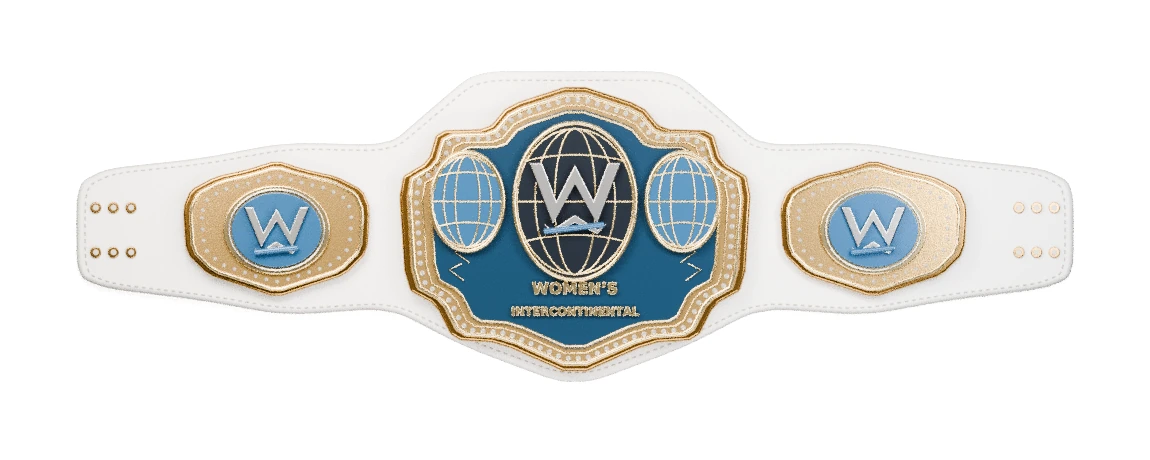
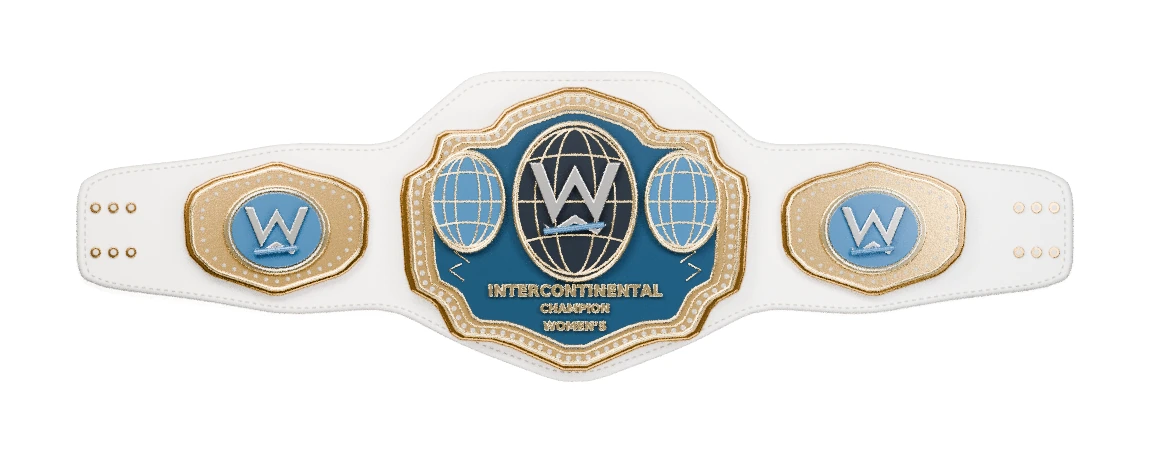
fix: revisa cinturoes e valida o pacote da beta
Ajusta as placas de cinco campeonatos da WWE e do NXT com referencias das edicoes atuais. Verifica a pintura no topo e no fim da lista depois dos filtros e o aviso durante uma resposta atrasada. Valida todos os WebPs pelo iniciador do Windows.

diff --git a/tests/browser/review.spec.ts b/tests/browser/review.spec.ts
@@ -228,6 +228,7 @@ test('carrega e enquadra todos os títulos, filtra as nove agendas e confere os 
     await expect(cards).toHaveCount(titles.length)
     const assets = await cards.evaluateAll(images => images.map(img => (img as HTMLImageElement).src))
     expect(assets, circuit).toEqual(titles.map(title => frames[OPENING_TITLES.indexOf(title)].src))
+    await expect(cards.first().locator('xpath=..')).toHaveAttribute('data-belt-status', 'ready')
   }
   await filter.selectOption('all')
   await expect(cards).toHaveCount(OPENING_TITLES.length)
@@ -235,26 +236,31 @@ test('carrega e enquadra todos os títulos, filtra as nove agendas e confere os 
   await expect(main.locator('.belt-load-error')).toHaveCount(0)
   const firstImage = cards.first()
   await expect(firstImage).toHaveAttribute('loading', 'eager')
-  await expect(firstImage.locator('xpath=..')).toHaveAttribute('data-belt-status', 'ready')
-  await expect.poll(async () => {
-    const frame = await firstImage.screenshot()
-    return page.evaluate(async png => {
-      const bytes = Uint8Array.from(atob(png), char => char.charCodeAt(0))
-      const bitmap = await createImageBitmap(new Blob([bytes], { type: 'image/png' }))
-      const canvas = document.createElement('canvas')
-      canvas.width = 80
-      canvas.height = 32
-      const ctx = canvas.getContext('2d', { willReadFrequently: true })!
-      ctx.drawImage(bitmap, 0, 0, canvas.width, canvas.height)
-      const { data } = ctx.getImageData(0, 0, canvas.width, canvas.height)
-      bitmap.close()
-      let beltPixels = 0
-      for (let index = 0; index < data.length; index += 4) {
-        if (Math.min(data[index], data[index + 1], data[index + 2]) < 200) beltPixels++
-      }
-      return beltPixels / (canvas.width * canvas.height)
-    }, frame.toString('base64'))
-  }).toBeGreaterThan(.15)
+  const lastImage = cards.last()
+  await expect(lastImage).toHaveAttribute('loading', 'lazy')
+  for (const image of [firstImage, lastImage]) {
+    await image.scrollIntoViewIfNeeded()
+    await expect(image.locator('xpath=..')).toHaveAttribute('data-belt-status', 'ready')
+    await expect.poll(async () => {
+      const frame = await image.screenshot()
+      return page.evaluate(async png => {
+        const bytes = Uint8Array.from(atob(png), char => char.charCodeAt(0))
+        const bitmap = await createImageBitmap(new Blob([bytes], { type: 'image/png' }))
+        const canvas = document.createElement('canvas')
+        canvas.width = 80
+        canvas.height = 32
+        const ctx = canvas.getContext('2d', { willReadFrequently: true })!
+        ctx.drawImage(bitmap, 0, 0, canvas.width, canvas.height)
+        const { data } = ctx.getImageData(0, 0, canvas.width, canvas.height)
+        bitmap.close()
+        let beltPixels = 0
+        for (let index = 0; index < data.length; index += 4) {
+          if (Math.min(data[index], data[index + 1], data[index + 2]) < 200) beltPixels++
+        }
+        return beltPixels / (canvas.width * canvas.height)
+      }, frame.toString('base64'))
+    }).toBeGreaterThan(.15)
+  }
   await main.getByRole('heading', { name: 'Campeonatos' }).scrollIntoViewIfNeeded()
   if (process.env.QA_SCREENSHOTS) await page.screenshot({ path: process.env.QA_SCREENSHOTS + '/catalogo-71-' + testInfo.project.name + '.png' })
 
@@ -268,6 +274,36 @@ test('carrega e enquadra todos os títulos, filtra as nove agendas e confere os 
     await expect.poll(() => image.evaluate(el => (el as HTMLImageElement).naturalWidth)).toBe(1150)
   }
   expect(await main.evaluate(element => element.scrollWidth <= window.innerWidth)).toBe(true)
+})
+
+test('mantém o aviso até a imagem carregar ao voltar para Todas', async ({ page }) => {
+  const firstTitle = OPENING_TITLES[0]
+  const source = beltVisualFor(firstTitle, null).asset
+  let releaseImage!: () => void
+  const blockedImage = new Promise<void>(resolve => { releaseImage = resolve })
+  await page.route('**/' + source, async route => {
+    await blockedImage
+    await route.continue()
+  })
+  await page.goto('./')
+  const main = page.getByRole('main')
+  await visit(page, 'Campeonatos')
+  const filter = main.getByLabel('Empresa ou brand')
+  const firstFrame = main.locator('.belt-card > summary .belt-media').first()
+  try {
+    await filter.selectOption('tna')
+    await expect(firstFrame).toHaveAttribute('data-belt-status', 'ready')
+    await filter.selectOption('all')
+    await expect(firstFrame.getByRole('img')).toHaveAttribute('src', new RegExp('/' + source + '$'))
+    await expect(firstFrame).toHaveAttribute('data-belt-status', 'loading')
+    await expect(firstFrame.getByText('Carregando imagem…')).toBeVisible()
+  } finally {
+    releaseImage()
+  }
+  await expect(firstFrame).toHaveAttribute('data-belt-status', 'ready')
+  await expect(firstFrame.getByRole('img')).toHaveJSProperty('naturalWidth', 1150)
+  await expect(firstFrame.getByText('Carregando imagem…')).toHaveCount(0)
+  await expect(main.locator('.belt-load-error')).toHaveCount(0)
 })
 
 test('apresenta o modelo de referência, a foto histórica e as edições que a carreira cria', async ({ page }, testInfo) => {

diff --git a/scripts/render-belt-studio.py b/scripts/render-belt-studio.py
@@ -426,11 +426,15 @@ def cast_wwe(x, y, width, height, z, metal, inset, accent):
 
 
 def relief_emblem(kind, mark, y, z, metal, face, accent, dark, pale):
-    if kind in ('wwe', 'wwe-globe'):
-        if kind == 'wwe-globe':
+    if kind in ('wwe', 'wwe-globe', 'world-tag'):
+        if kind != 'wwe':
             world_emblem(0, y, 1.11, 1.00, z, pale, dark)
         cast_wwe(0, y + .08, 1.88 if kind == 'wwe' else 1.10, 1.40 if kind == 'wwe' else .95,
                  z + .073, pale, dark, accent)
+        return
+    if kind == 'nxt-globe':
+        world_emblem(0, y, 1.45, .95, z, metal, dark)
+        lettering(mark, 0, y, z + .068, 1.0, 2.65, pale)
         return
     if kind == 'intercontinental':
         for x in (-1.40, 1.40):
@@ -597,9 +601,9 @@ def catalog_studio(design, output, samples, width):
 
     kind = design['emblem']
     usa = brand == 'wwe' and kind == 'eagle'
-    emblem_y = -.83 if usa else .37
+    emblem_y = -.83 if usa else {'world-tag': .05, 'nxt-globe': .43}.get(kind, .37)
     relief_emblem(kind, mark, emblem_y, z + .022, lip, engraving, accent, dark, bright)
-    show_mark = kind != 'wwe' and kind != 'wwe-globe' and (kind != 'mark' or mark != brand_mark)
+    show_mark = kind not in ('wwe', 'wwe-globe', 'world-tag', 'nxt-globe') and (kind != 'mark' or mark != brand_mark)
     if show_mark and not usa:
         lettering(brand_mark, 0, mh * .62, z, .157, 1.54, engraving)
     if kind == 'wwe-globe':
@@ -617,7 +621,7 @@ def catalog_studio(design, output, samples, width):
                                                     y + math.cos(angle) * .12), z + .005, .039, lip, .012)
 
     lines = design['text']
-    text_y = {'wwe': -1.10, 'wwe-globe': -.87, 'intercontinental': -.76}.get(kind, -.56)
+    text_y = {'wwe': -1.10, 'wwe-globe': -.87, 'intercontinental': -.79, 'nxt-globe': -.80}.get(kind, -.56)
     lens = min(mw * 1.38, 3.64)
     font_path = SERIF_PATH if design['detail'] in ('scroll', 'laurel') else FONT_PATH
     if usa:
@@ -632,10 +636,17 @@ def catalog_studio(design, output, samples, width):
             for i in range(4):
                 solid('Struck star', at(star_points(), .072, .076, sign * (.70 + i * .25), 1.24 - i * .11),
                       z + .015, .028, bright, .006)
+    elif kind == 'world-tag':
+        for text, y in zip(lines, (1.30, -1.25)):
+            banner = at(smooth_outline(PLAQUE, 1), 1.52, .24, y=y)
+            solid('Crimson title banner', banner, z, .045, accent, .016)
+            border('Polished banner edge', banner, z + .038, .020, lip)
+            lettering(text, 0, y, z + .050, .32, 2.76, bright, SERIF_PATH)
     else:
         text_metal = dark if brand == 'wwe' and face == plate else engraving
+        line_spacing = .23 if len(lines) > 2 else .30
         for i, text in enumerate(lines):
-            lettering(text, 0, text_y - .30 * i, z + .021, (.32 if i == 0 else .235),
+            lettering(text, 0, text_y - line_spacing * i, z + .021, (.32 if i == 0 else .235),
                       lens * (1 if i == 0 else .88), text_metal, font_path)
 
     # Side plates share the same metal and fasteners as the center casting.

diff --git a/scripts/pack-belt-catalog.py b/scripts/pack-belt-catalog.py
@@ -12,17 +12,18 @@ ART_LIMIT = (1058, 390)
 
 
 def main():
+    designs = json.loads(Path(__file__).with_name('belt-catalog-designs.json').read_text(encoding='utf-8'))
     parser = argparse.ArgumentParser(description=__doc__)
     parser.add_argument('renders', type=Path, help='Directory of PNGs made by the Blender script')
     parser.add_argument('--art', type=Path, help='Optional directory of curated studio artwork by title ID')
+    parser.add_argument('--title', action='append', choices=designs, help='Pack this catalog ID only. May be repeated.')
     parser.add_argument('--out', type=Path, default=ROOT / 'public' / 'belts' / 'catalog')
     args = parser.parse_args()
 
-    designs = json.loads(Path(__file__).with_name('belt-catalog-designs.json').read_text(encoding='utf-8'))
     overrides = {path.stem: path for path in args.art.glob('*.png')} if args.art else {}
     if unknown := overrides.keys() - designs.keys():
         parser.error('Unknown artwork IDs: ' + ', '.join(sorted(unknown)))
-    sources = {title: overrides.get(title, args.renders / (title + '.png')) for title in designs}
+    sources = {title: overrides.get(title, args.renders / (title + '.png')) for title in args.title or designs}
     if missing := [title for title, path in sources.items() if not path.is_file()]:
         parser.error('Missing PNGs: ' + ', '.join(missing))
     args.out.mkdir(parents=True, exist_ok=True)
@@ -37,7 +38,7 @@ def main():
             offset = tuple((whole - part) // 2 for whole, part in zip(SIZE, loaded.size))
             frame.paste(loaded, offset, loaded)
             frame.save(args.out / (title + '.webp'), method=6, quality=91)
-    print(f'{len(sources)} images, {len(overrides)} curated studio scenes.')
+    print(f'{len(sources)} images, {len(sources.keys() & overrides.keys())} curated studio scenes.')
 
 
 if __name__ == '__main__':

diff --git a/docs/CATALOGO-CINTUROES.md b/docs/CATALOGO-CINTUROES.md
@@ -26,6 +26,8 @@ As vitrines abaixo permitem consultar fotografias oficiais de réplicas. Os arqu
 | ROH | [Eventos e resultados](https://www.ringofhonor.com/) · [Referência visual de títulos](https://www.thesmackdownhotel.com/title-history/) |
 | BWF | [Sul-Americano](https://bwf.com.br/sul-americano/) · [Histórico do Maremoto](https://bwf.com.br/maremoto-volta-a-bwf-em-show-no-proximo-sabado-conheca-sua-historia/) · [Elenco](https://bwf.com.br/lutadores/) |
 
+As referências da WWE também mostram as placas distintas dos títulos de duplas de [Raw](https://euroshop3.wwe.com/en/wwe-world-tag-team-championship-replica-title-belt/p-201513803) e [SmackDown](https://shop.wwe.com/en/wwe-tag-team-championship-replica-title-belt/p-201467105) e as inscrições e acabamentos dos títulos [Intercontinental feminino](https://shop.wwe.com/en/wwe-womens-intercontinental-championship-replica-title-belt/p-202474595), [United States feminino](https://shop.wwe.com/en/womens-united-states-championship-replica-title-belt/p-202474596) e [NXT feminino](https://shop.wwe.com/en/wwe-nxt-womens-championship-2024-replica-title-belt/p-202360508). O BWF Maremoto usa uma representação temática. A [placa histórica de 2012](https://bwf.com.br/wp-content/uploads/2018/08/BWF-Cinturao-Virada-Culturao-1024x400.jpg) homenageia Pirata Alma Negra.
+
 ## Edições criadas na carreira
 
 São 32 modelos originais renderizados no Blender, exibidos offline em WebP de 1150 × 460. Cada uma das oito identidades visuais tem quatro modelos, para o título original, a unificação, a reformulação e a homenagem. As reformulações mudam o contorno e o acabamento da placa. As homenagens usam correias próprias, placas laterais adicionais e inscrição do campeão. Couro texturizado, costuras, fechos, placas chanfradas e esmalte respondem à iluminação de estúdio.
@@ -36,11 +38,11 @@ O jogo escolhe a peça pelo tipo de edição registrado na carreira. A unificaç
 
 Ao adicionar um título em `src/content/titles.ts`, cadastre o mesmo ID em `scripts/belt-catalog-designs.json` e inclua seu WebP em `public/belts/catalog/`. O gerador usa Blender. O empacotador converte os PNGs para WebP em 1150 × 460 e aceita artes selecionadas em uma pasta opcional. Os dois são ferramentas de manutenção do acervo e o jogo usa os WebPs já distribuídos. [Gerador](../scripts/render-belt-studio.py) · [Empacotador](../scripts/pack-belt-catalog.py)
 
-A integração verifica acervo completo, cabeçalho, tamanho e assinatura de cada arquivo. O teste de navegador percorre os 71 títulos, decodifica os WebPs, confere dimensões, proporção, fundo e margem, aplica os filtros das nove agendas e compara os endereços com as imagens dos elencos. A suíte também cobre perfil, fotos locais, histórico, abertura da luta e resultado da unificação. [Testes de integração](../tests/beta-review.test.ts) · [Testes no jogo](../tests/browser/review.spec.ts)
+A integração verifica acervo completo, cabeçalho, tamanho e assinatura de cada arquivo. O teste de navegador percorre os 71 títulos, decodifica os WebPs, confere dimensões, proporção, fundo e margem, aplica os filtros das nove agendas e compara os endereços com as imagens dos elencos. Ao retornar a **Todas**, a suíte confere os pixels da primeira e da última imagem depois da rolagem e verifica o aviso enquanto uma resposta está atrasada. O iniciador do Windows é executado com o pacote extraído e serve os 71 WebPs. A suíte também cobre perfil, fotos locais, histórico, abertura da luta e resultado da unificação. [Testes de integração](../tests/beta-review.test.ts) · [Testes no jogo](../tests/browser/review.spec.ts)
 
 ## Usar uma foto autorizada neste navegador
 
-Abra **Campeonatos**, escolha o título e, em **Histórico visual**, use **Adicionar foto autorizada do cinturão**. Escolha um arquivo JPG, PNG ou WebP frontal, com a peça inteira e fundo branco ou transparente. O jogo centraliza a fotografia em 1150 × 460 preservando a proporção. A imagem fica no navegador, aparece em todas as telas que usam a edição de referência e pode ser substituída ou removida ali mesmo. As fotos oficiais distribuídas e as edições simuladas têm prioridade nas versões a que pertencem.
+Abra **Campeonatos**, escolha o título e, em **Histórico visual**, use **Adicionar foto autorizada do cinturão**. Escolha um arquivo JPG, PNG ou WebP frontal, com a peça inteira e fundo branco ou transparente. O jogo centraliza a fotografia em 1150 × 460 preservando a proporção. A imagem fica no navegador, aparece em todas as telas que usam a edição de referência e pode ser substituída ou removida ali mesmo. As fotos licenciadas distribuídas e as edições simuladas têm prioridade nas versões a que pertencem.
 
 As imagens adicionadas ficam em uma base local de mídia. Cada computador, endereço do jogo e navegador tem sua própria base. A carreira exportada leva os dados esportivos e as edições simuladas.
 

diff --git a/docs/BETA-CARREIRA-LIVRE.md b/docs/BETA-CARREIRA-LIVRE.md
@@ -4,7 +4,7 @@ Crie seu lutador, assine com uma das sete empresas e dispute combates por turnos
 
 ## Jogar no Windows
 
-1. Baixe o ZIP **wrestling-legacy-beta** e use **Extrair tudo**.
+1. Abra a execução mais recente aprovada na [página da beta no GitHub Actions](https://github.com/BhGoncalves15/-WRESTLING-LEGACY/actions/workflows/pilot-ci.yml?query=branch%3Amain+is%3Asuccess), baixe **wrestling-legacy-beta** em **Artifacts** e use **Extrair tudo**.
 2. Abra a pasta extraída e dê dois cliques em **JOGAR-WINDOWS.exe**. O jogo abre no navegador.
 3. Deixe a janela do iniciador aberta enquanto joga. Se o navegador estiver fechado, use [localhost:4173/-WRESTLING-LEGACY/](http://localhost:4173/-WRESTLING-LEGACY/).
 
@@ -19,7 +19,7 @@ Crie seu lutador, assine com uma das sete empresas e dispute combates por turnos
 Com Git e Node.js 22.13 ou mais recente:
 
 ```bash
-git clone --branch feat/catalogo-cinturoes https://github.com/BhGoncalves15/-WRESTLING-LEGACY.git
+git clone https://github.com/BhGoncalves15/-WRESTLING-LEGACY.git
 cd ./-WRESTLING-LEGACY
 npm ci
 npm run dev
